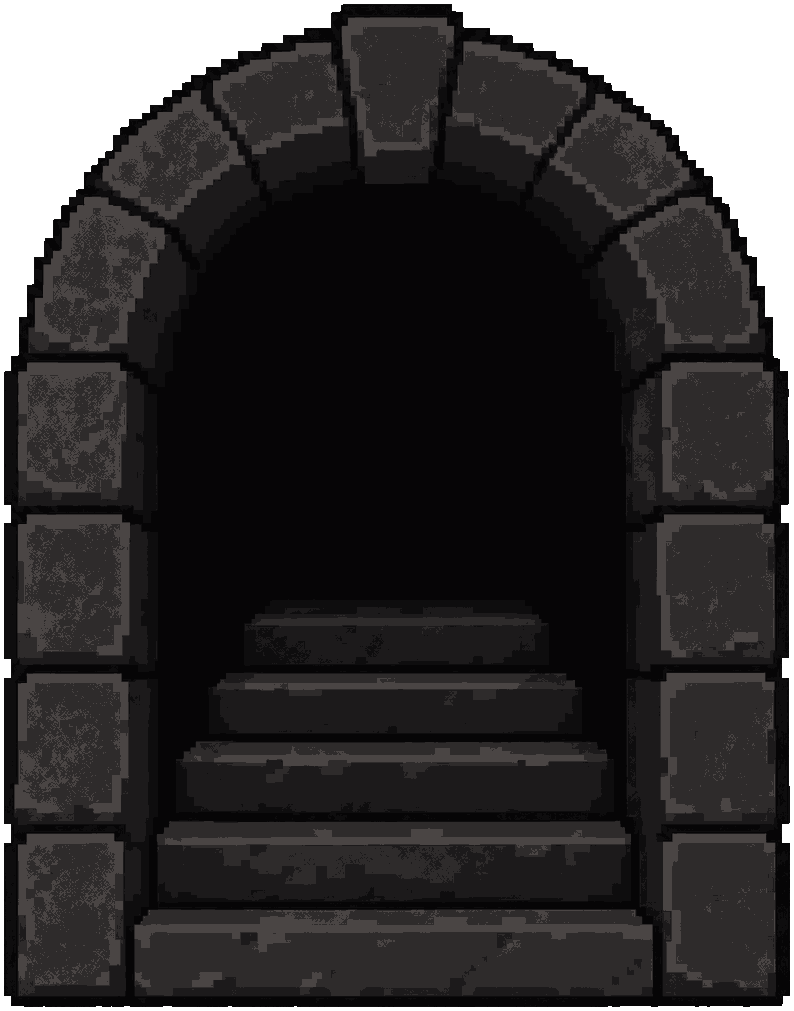
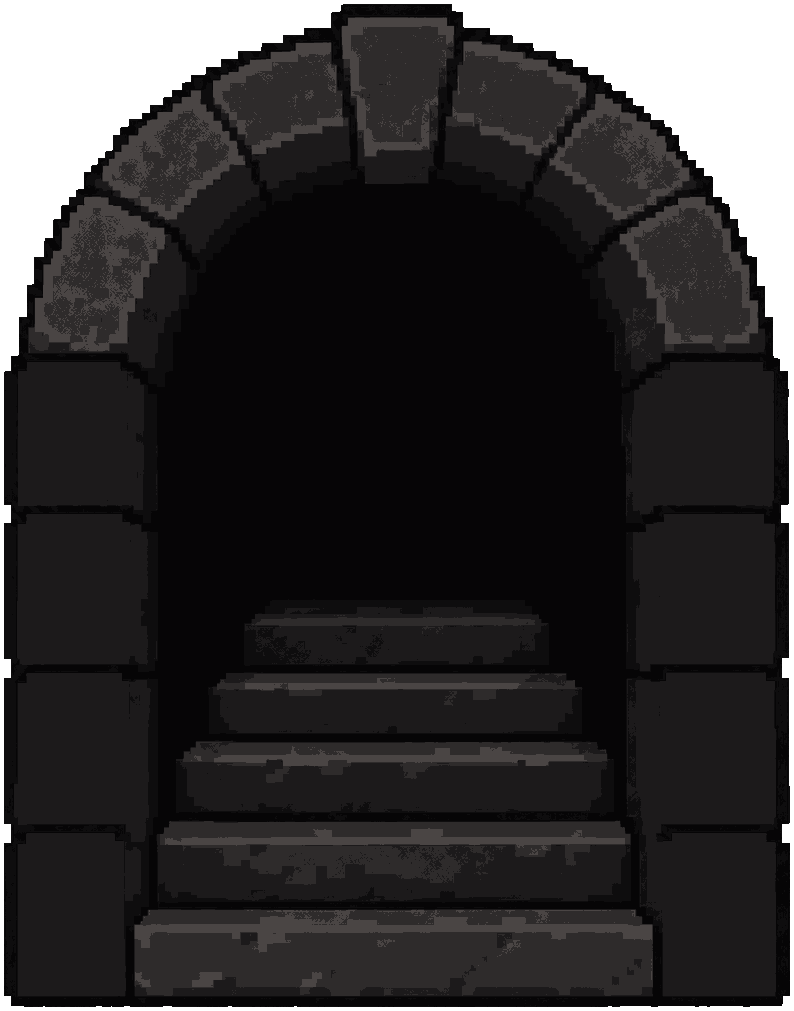
1217: darker stairs-up jamb

diff --git a/tools/magmaprops.py b/tools/magmaprops.py
@@ -62,6 +62,16 @@ STAIR_CUTS = [0.07, 0.14, 0.24, 0.38]
 FERN_GROW, CLOSE = 5, 12
 
 
+def darken_jamb(im):
+    a = np.asarray(im).copy(); H, W = a.shape[:2]
+    m = np.zeros((H, W), bool)
+    m[365:905, :275] = m[365:905, 745:] = True
+    m[905:, :245] = m[905:, 775:] = True
+    for hi, lo in ((BAS[3], BAS[2]), (BAS[2], BAS[1])):
+        a[m & (a[..., :3] == hi).all(-1), :3] = lo
+    return Image.fromarray(a)
+
+
 def defern(im, src):
     """the fern leaf left from boulder_b's greenery: its pixels outside the stone mass go clear, over stone they take the median of the stone around"""
     from scipy import ndimage as nd
@@ -156,7 +166,7 @@ if __name__ == '__main__':
         'banner_mg': banner(),
         'forge_mg': forge('art/gen/forge_tw.png'),
         'stairs_mg': reshade('art/gen/stairs.png', STAIR_RAMP, STAIR_CUTS),
-        'stairs_up_mg': reshade('art/gen/stairs_up.png', STAIR_RAMP, STAIR_CUTS),
+        'stairs_up_mg': darken_jamb(reshade('art/gen/stairs_up.png', STAIR_RAMP, STAIR_CUTS)),
         'stairs_up_free_mg': reshade('art/gen/stairs_up_free.png', STAIR_RAMP, STAIR_CUTS),
     }
     only = sys.argv[sys.argv.index('--only') + 1].split(',') if '--only' in sys.argv else list(out)

diff --git a/TASKS_COMPLETED.md b/TASKS_COMPLETED.md
@@ -953,6 +953,8 @@
 
 1218. ✅ **[М]** Мелочи анимации (раунд 10): маска погружения саламандры клеточная при рваном береге (`submergedClip` 41 при пороге 45), подошва столбов `drop()` считает лаву со старым шумом; пыль закрывает дыру в настиле; `salamander_submerge` 5,9 % и `colossus_call` 6,0 % у порога. Объём S. → 09.11.2026: маска погружения саламандры идёт по шуму берега лавы (`lib.js`): `submergedClip` 41 → 35; `drop()` считает лаву с новым шумом; пыль от камня на мосту начинается за краем дыры и бледнее (`scene_fx.js`). `salamander_submerge` 5,9 % и `colossus_call` 6,0 % не менялись, QA зелёный.
 
+1217. ✅ **[А]** Косяк лестницы вверх, остаток 1201 (раунд 10): L* 41,9 → 27,3 при цели ≤ 18, остальное в цели (сами лестницы 15–22, шесть из восьми кадров). Объём S. → 09.11.2026: косяк `stairs_up_mg` на две ступени темнее только в его области (`darken_jamb`, `tools/magmaprops.py`), ступени не менялись: медиана L* спрайта 17,8 → 9,5. Цель 27,3 → ≤ 18 мерилась в кадре, в кадре не перемерял.
+
 ## Стартовый город, квесты и порталы (R-17)
 
 1149. ✅ **[Г][А]** (решение игрока 07.11.2026) Ворота города: у двора крепости нет входа, город выглядит тюрьмой. Добавить ворота в стене двора (ассет и место на плане `TOWN`, проход за ними закрыт). E у ворот — выход: во время кампании — «Сдаться» (как в меню паузы, с подтверждением), после победы над колоссом — «Завершить поход» (как у Хранителя, 1148). QA-состояние ворот, проверка проходимости двора (`townWalk`). → 07.11.2026: ассет `gate_tw` (`art/prompts/gate_tw.txt`, образец — разрушенная арка с верха референса города, `study/refcrops/town_gate_arch.png`): каменная арка из клиньев в стене из сланцевых блоков, закрытые дубовые створки с железными полосами и засовом, мох; без света, чистая альфа. На плане `TOWN` (`dungeon.js`) — `exitGate` в нижней стене по центру, где кончается мощёная тропа от костра (как на референсе); E — у `use.exitGate` над рельсами, чтобы ворота не закрывали героя; фонарь на столбе сдвинут с 31 на 32. E у ворот (`atExitGate`, `sim_town.js`) открывает окно `leave` (`UI.leave`, `hud.js`): «Ворота города», до колосса — «Уйти сейчас — сдаться» и кнопка «Сдаться» (забег кончается как сданный), после — «Кампания пройдена…» и «Завершить поход» (`finishRun`, как у Хранителя, 1148); «Остаться». Уйти — только кнопкой или Enter, E и Esc — остаться. Подсказка «E — ворота города». selfCheck (`townCheck`): ворота на плане и в двухклеточном проходе от спавна, E открывает окно, E в нём не кончает забег, «Сдаться» — сданный забег, после колосса — победа. QA: `town_exit_gate`, `town_leave`, `town_leave_done` (просмотрены). Раунд критиков не запускался (план).

diff --git a/TASKS.md b/TASKS.md
@@ -41,8 +41,6 @@
 
 1216. ⏳ **[С][А][М]** Кромка героя 1199, остаток (раунд 10): на стороне лавы ΔE 54–81, цель ≥ 12 взята на 5 состояниях из 8 (арка 10,2, пещера 9,6, тюрьма 7,9); оранжевые точки остались в зазорах между руками и ногами, замер ассетов — 66 % пикселей глубже 3 px при цели ≤ 5 % (без кадра без кромки). Объём S. → 09.11.2026, частично: кромка на слабом свете лавы набирает полную силу раньше (`SS(0.05, 0.5)` → `SS(0.05, 0.28)`, `scene_world.js`), ΔE на арке, в пещере и тюрьме не перемерял. Не исправлено: оранжевые точки в зазорах между руками и ногами и глубина кромки (сдвиг 4 px нужен, чтобы выйти из чёрной обводки в 2 px); нужна маска внешнего силуэта. Задача остаётся открытой.
 
-1217. ⏳ **[А]** Косяк лестницы вверх, остаток 1201 (раунд 10): L* 41,9 → 27,3 при цели ≤ 18, остальное в цели (сами лестницы 15–22, шесть из восьми кадров). Объём S.
-
 ## Бесконечный спуск (R-05)
 
 Решения игрока 02.11.2026: биом случайный (от сида забега) парами по 2 этажа, повторы разрешены, в наборе все 5 биомов, включая затопленные пещеры; в конце второго этажа пары по очереди — элитный страж выхода, затем босс биома этой пары (и так далее); размер этажей растёт от небольших к крупным до предела; старт как в кампании (герой 1-го уровня, мета Алтаря душ действует, осколки копятся), сложность растёт с глубиной без потолка, рекорд глубины. Пока режим — тестовая кнопка в главном меню (как «Тест: пещеры отдельно»); после готовности — вставка в кампанию: после Глубинного змея на 12-м этаже выбор — портал (победа) или спуск дальше. Работа в ветке `cave-biome`. Порядок: 348 → 349 → 350 → 351 → 352 → 353; 354 — после всех.
